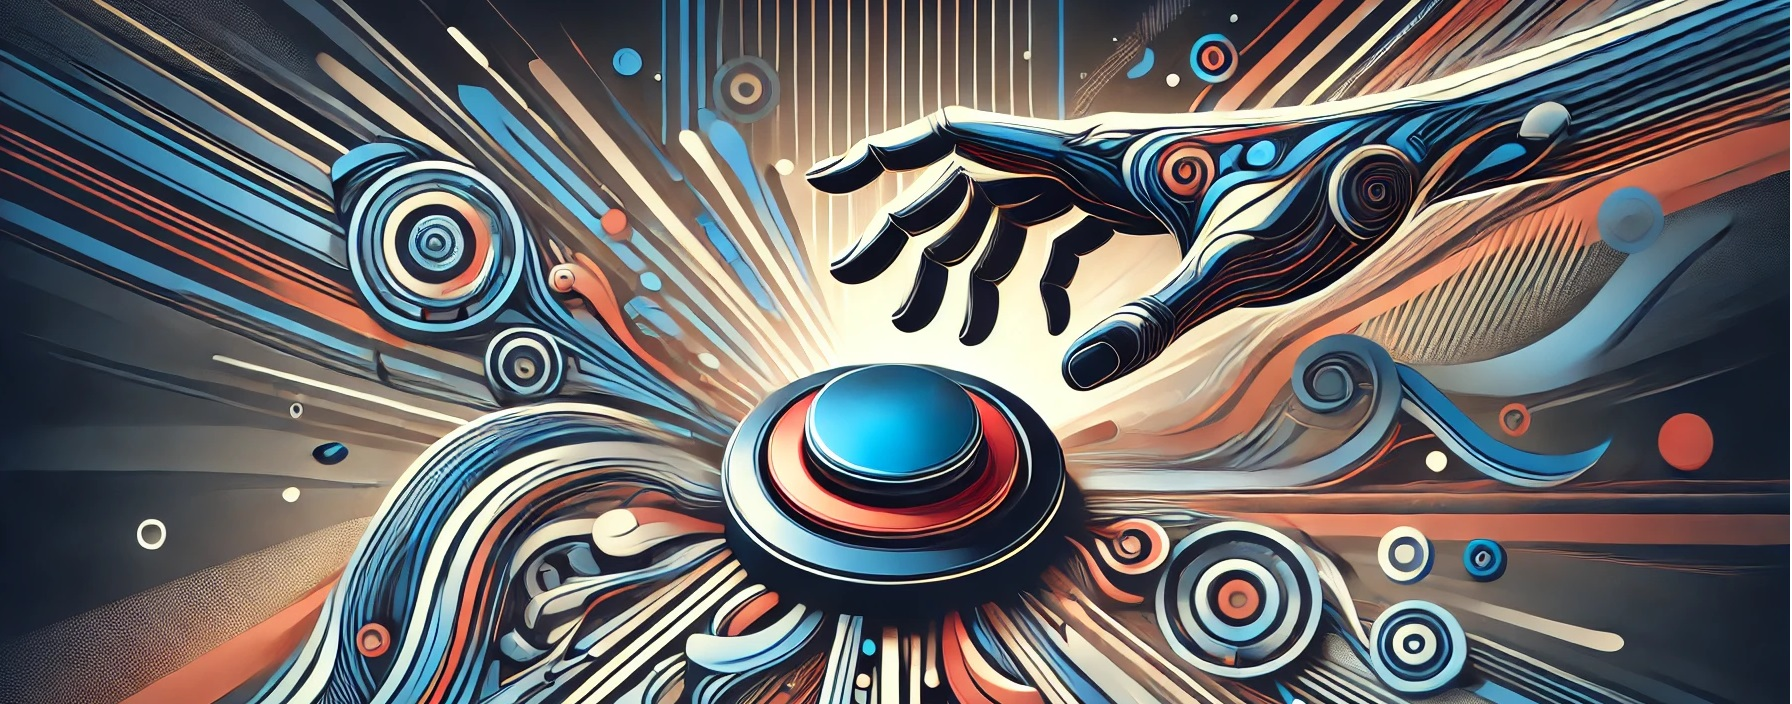
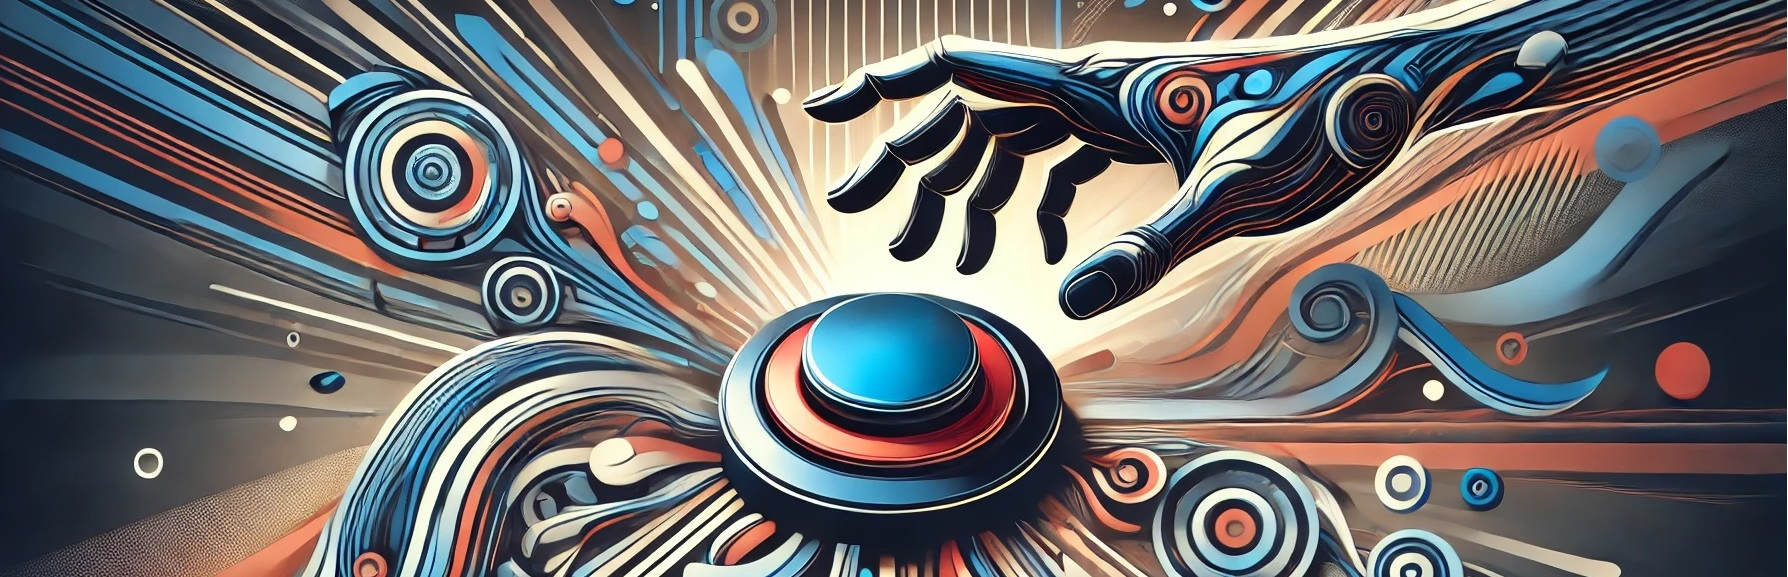
gogo

diff --git a/css/menu.css b/css/menu.css
@@ -1,5 +1,5 @@
 .hero {
-    background: url('../images/hero-image.jpg') no-repeat center 5%; /* Move the image up to show more of the top */
+    background: url('../images/hero-image.jpg') no-repeat center 20%; /* Move the image up to show more of the top */
     background-size: cover; /* Cover the entire area while maintaining aspect ratio */
     padding: 40px 20px; /* Reduced padding for a more contained look */
     text-align: center;
